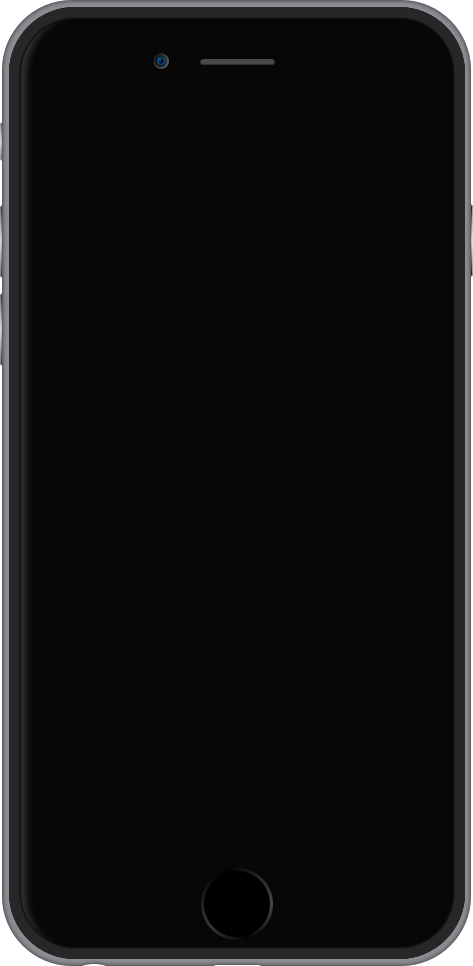
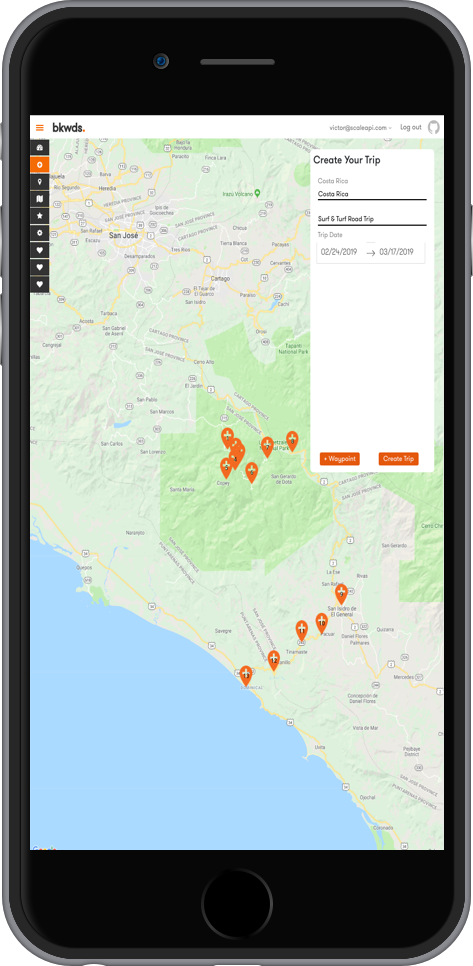
added branded iphone photos

diff --git a/client/src/components/LandingPage/Features.js b/client/src/components/LandingPage/Features.js
@@ -3,6 +3,7 @@ import styled from "styled-components"
 import iphone from "../../assets/iphone.png"
 import mapview from "../../assets/mapview.png"
 import plan from "../../assets/iphoneplan.png"
+import list from "../../assets/iphonelist.png"
 
 //WIP --VIC
 
@@ -85,8 +86,8 @@ class Features extends Component {
       case "share":
         image = iphone
         break
-      case "peace":
-        image = mapview
+      case "list":
+        image = list
         break
       default:
         image = iphone
@@ -152,7 +153,7 @@ class Features extends Component {
               </p>
             </div>
             <div
-              id="peace"
+              id="list"
               onMouseEnter={this.handleMouseOver}
               className="features-content"
             >
